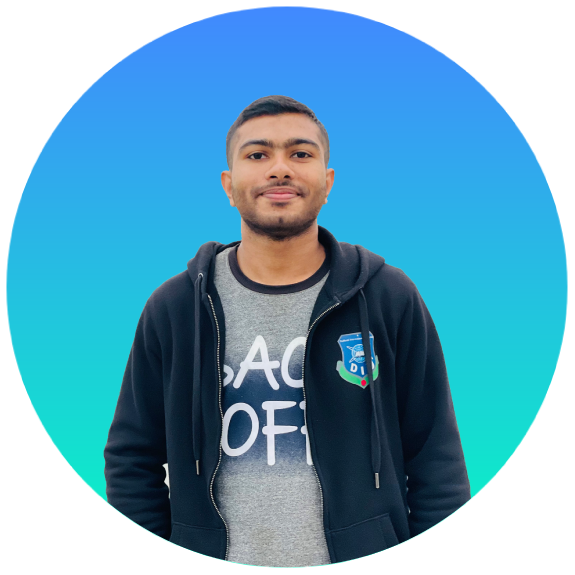
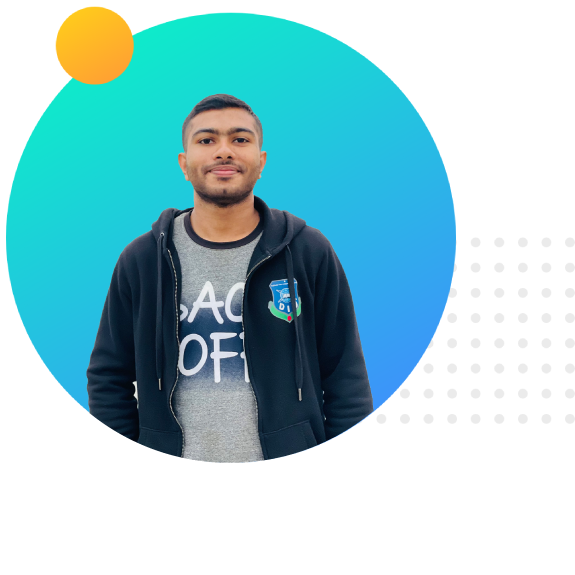
first website finisehed

diff --git a/index.html b/index.html
@@ -1,25 +1,61 @@
-<!DOCTYPE html>
-<html lang="en">
-<head>
-    <meta charset="UTF-8">
-    <meta http-equiv="X-UA-Compatible" content="IE=edge">
-    <meta name="viewport" content="width=device-width, initial-scale=1.0">
-    <link href="https://fonts.googleapis.com/css2?family=Poppins&display=swap" rel="stylesheet">
-    <title>Sabbir Website</title>
-    <link rel="stylesheet" href="style.css">
-</head>
-<body>
-        <section>
-            <div class="half-w">
-            <h1>Welcome to</h1>
-            <h1><span class ="name-highlight">Sabbir</span> Website</h1>
-            <h3>Newbie Web Devloper0</h3>
-            <p>I am a newbie web developer. I can develop basic <br> website using html and css. My desire is become <br> a successful developer.</p>
-            <h3 id="hire">Hire Me</h3>
-            </div>
-            <div class="half-w">
+    <!DOCTYPE html>
+    <html lang="en">
+    <head>
+        <meta charset="UTF-8">
+        <meta http-equiv="X-UA-Compatible" content="IE=edge">
+        <meta name="viewport" content="width=device-width, initial-scale=1.0">
+        <link href="https://fonts.googleapis.com/css2?family=Poppins&display=swap" rel="stylesheet">
+        <title>Sabbir Website</title>
+        <link rel="stylesheet" href="style.css">
+    </head>
+    <body>
+            <section class="top-banner">
+                
+                <div class="half-w">
+                <h1>Welcome to</h1>
+                <h1><span class ="orange-highlight">Sabbir's</span> Website</h1>
+                <h3>Newbie Web Developer</h3>
+                <p>I am a newbie web developer. I can develop basic website using HTML and CSS. My desire to is become a successful web developer. I am leaning spontaneously to reach my goal. </p>
+                <a class="link-button" target="_blank" href="https://www.linkedin.com/in/sabbir-ahmed-b78668205/">Hire Me</a>
+                </div>
+
+                <div class="half-w">
                 <img src="images/sabbir-1.png" alt="">
-            </div>
-        </section>
-</body>
-</html>
+                </div>
+            </section>
+
+            <section class="Dream-area">
+                <div class="half-w">
+                    <img src="images/sabbir-3.png" alt="">
+                </div>
+
+                <div class="half-w">
+                    <h2>I Have a Big Dream</h2>
+                    <h3> To Become a Web Developer</h3>
+                    <p>I am preparing myself for becoming a successful programmer. These are the three foundational languages of the web. HTML provides the structure, CSS provides the styling, and JavaScript provides the interactivity.</p>
+                    <a class = "link-button" target="_blank" href="https://www.youtube.com/watch?v=UjgcnwkfjZA">Watch my Resume</a>
+                </div>
+            </section >
+            
+            <section class="exp">
+                <h1 id="exp">Experiences</h1>
+
+                <div id="full-stack" class="half-w single-experience" >
+                    <h2>Full Stack Web Dev</h2>
+                    <h3 class="orange-highlight">2023-Present | Pro Level Web Dev</h3>
+                    <p>I have learned HTML, CSS to develop any professional website. I hope this will help to develop any site.
+                        Learning has no ending that's why I am continuing it and adopting myself. </p>
+                </div>
+
+                <div id="newbie" class="half-w single-experience">
+                <h2>Newbie Web Developer</h2>
+                <h3 class="orange-highlight">2022-2023 | Learner at Programming Hero</h3>
+                <p>I was taking basic knowledge at Programming Hero. I was not familiar with developing. It was the course that helped to become learned. </p>
+                </div>
+            </section>
+
+            <footer>
+                <p>© Sabbir 2023 All Rights Reserved</p>
+            </footer>   
+    </body>
+    </html>

diff --git a/style.css b/style.css
@@ -4,14 +4,10 @@ body{
 h1{
     font-size: 50px;
 }
-.name-highlight{
+.orange-highlight{
     color: orange;
 }
-hire
-{
-    background-color: coral;
-    
-}
+
 .half-w{
     width: 40%;
     float: left;
@@ -19,5 +15,66 @@ hire
     padding-left: 2%;
 }
 .half-w img{
-    width: 100%;
+    width: 90%;
+    padding-top: 5px;
 }
+.top-banner{
+    background-image: url("images/top-banner.png");
+}
+section{
+    height: 500px;
+    background-repeat: no-repeat;
+    padding-bottom: 150px;
+}
+body{
+    margin: 0%;
+}
+p{
+    color:darkslategrey;
+}
+.link-button{
+    text-decoration: none;
+    background-image: linear-gradient(45deg,orange, tomato);
+    padding: 10px 20px;
+    border-radius: 5px;
+    color: white;
+    font-weight: 700;
+}
+h2{
+    font-weight: 900;
+}
+.Dream-area{
+    background-image: url("images/dream-bg.png");
+    background-position: right;
+}
+.single-experience{
+    box-shadow: 10px 10px 40px gray;
+    border-radius: 5px;
+    height: 60%;
+}
+.exp{
+    background-image: url("images/exp-bg.png");
+    background-image: no-repeat;
+    background-position: left;
+}
+#full-stack{
+    border-left: 7px solid;
+    border-image: linear-gradient(blue,green);
+    border-image-slice: 1;
+    background-color: white;
+}
+#newbie{
+    border-left: 7px solid;
+    border-image: linear-gradient(tomato,green);
+    border-image-slice: 4;
+}
+footer p{
+    text-align: center;
+    font-size: 20px;
+}
+#exp{
+    font-size: 900;
+    padding-left: 10px;
+}
+
+ 
